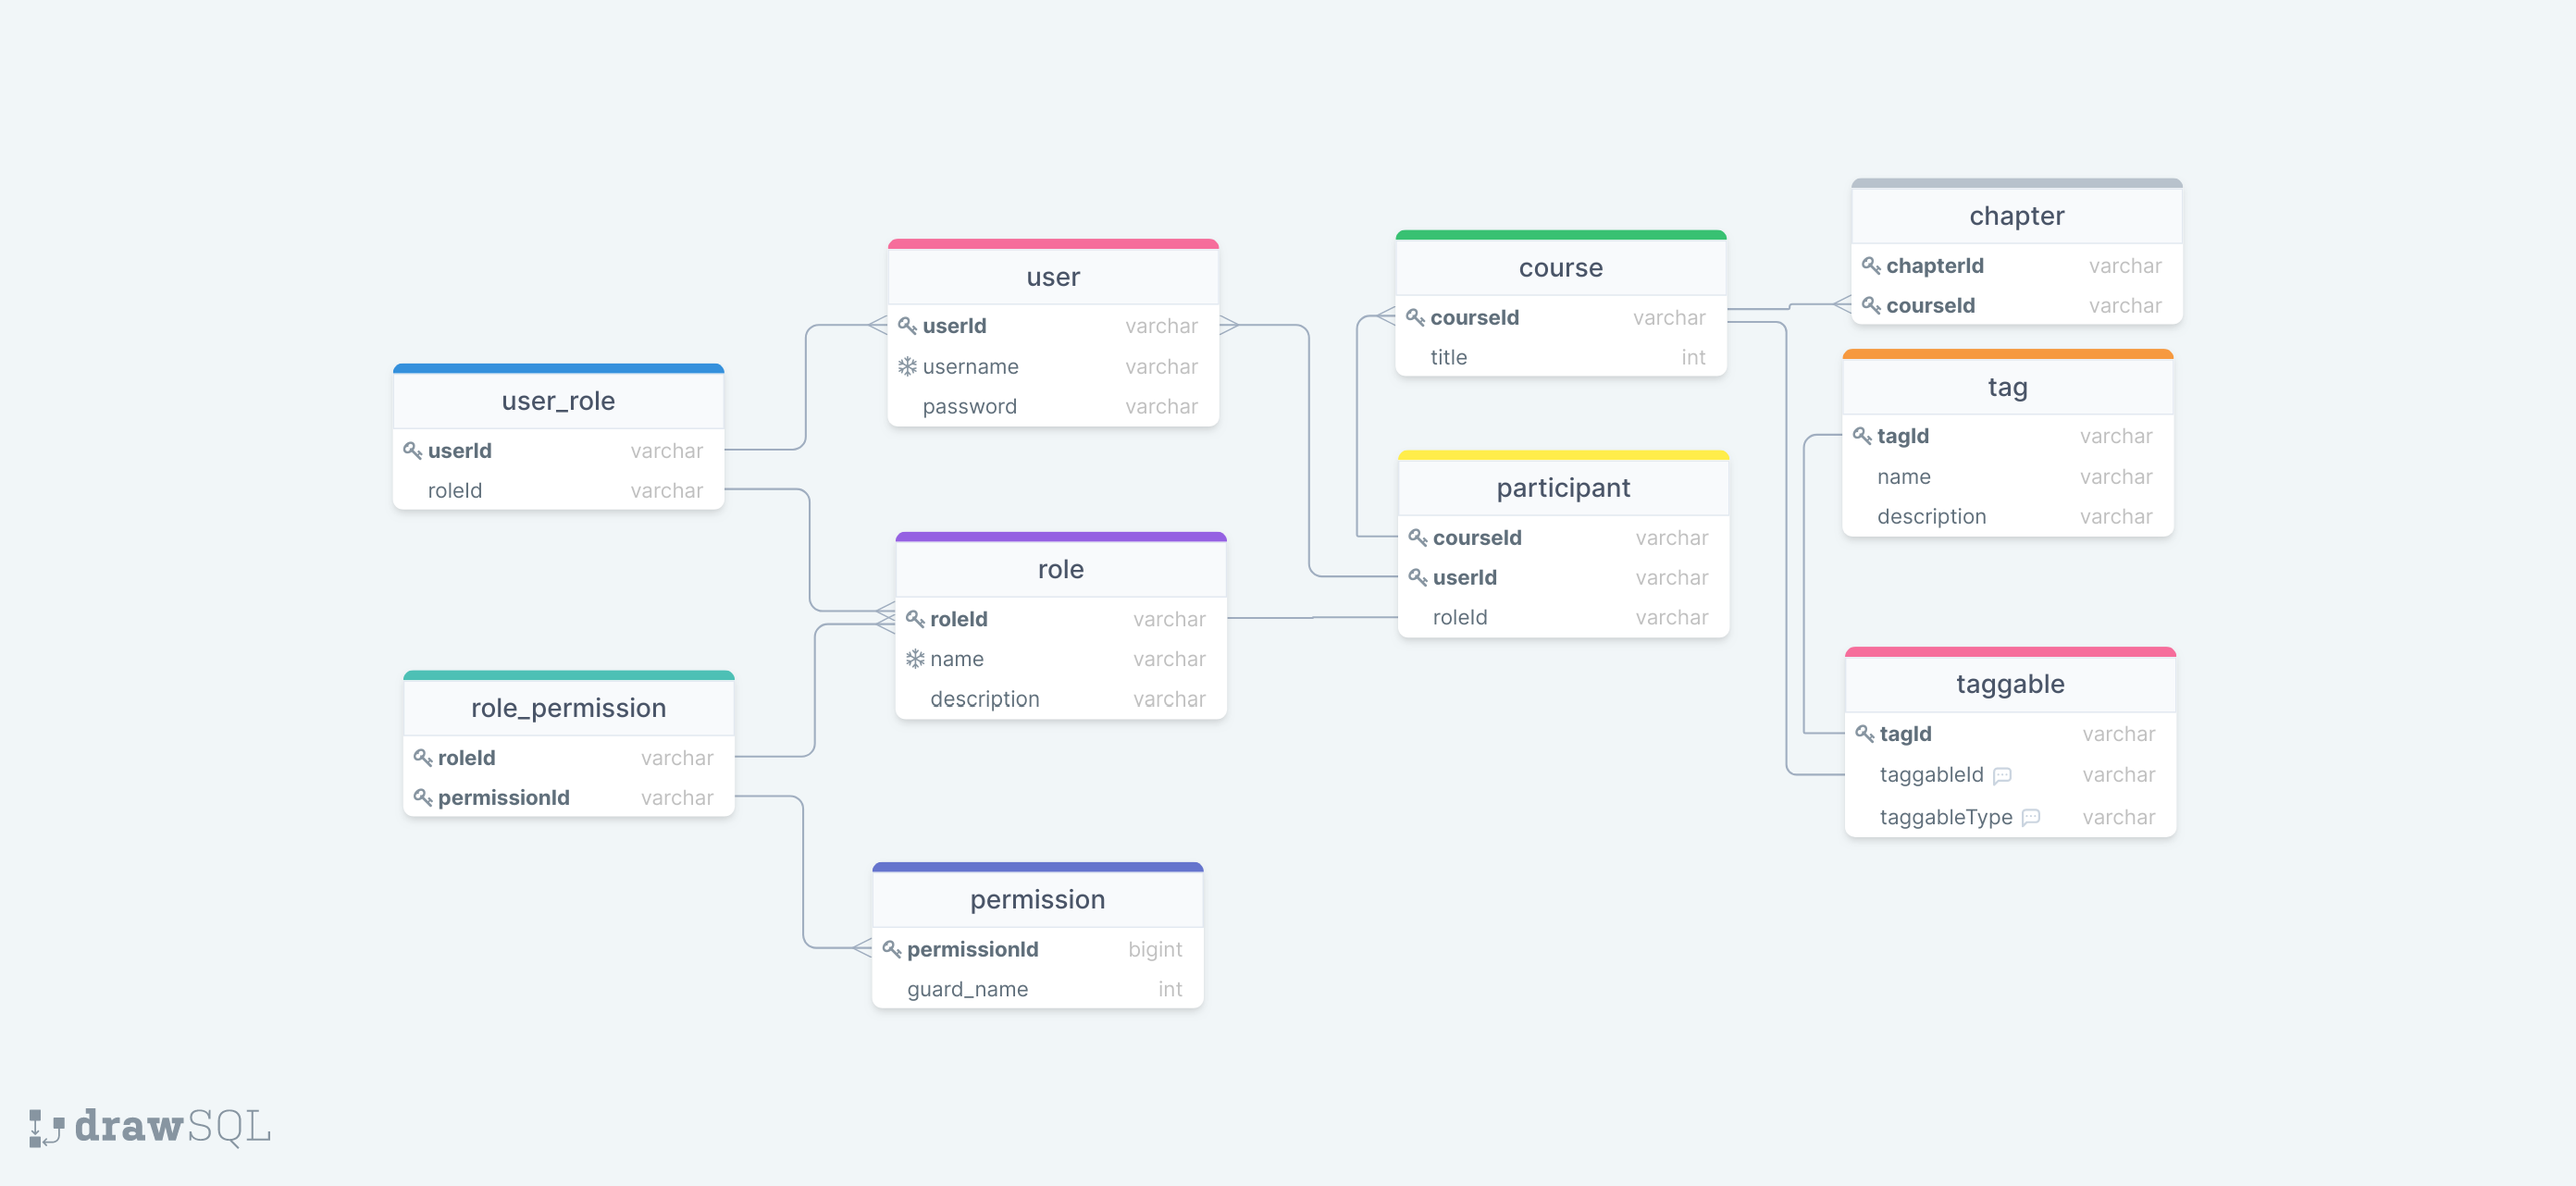
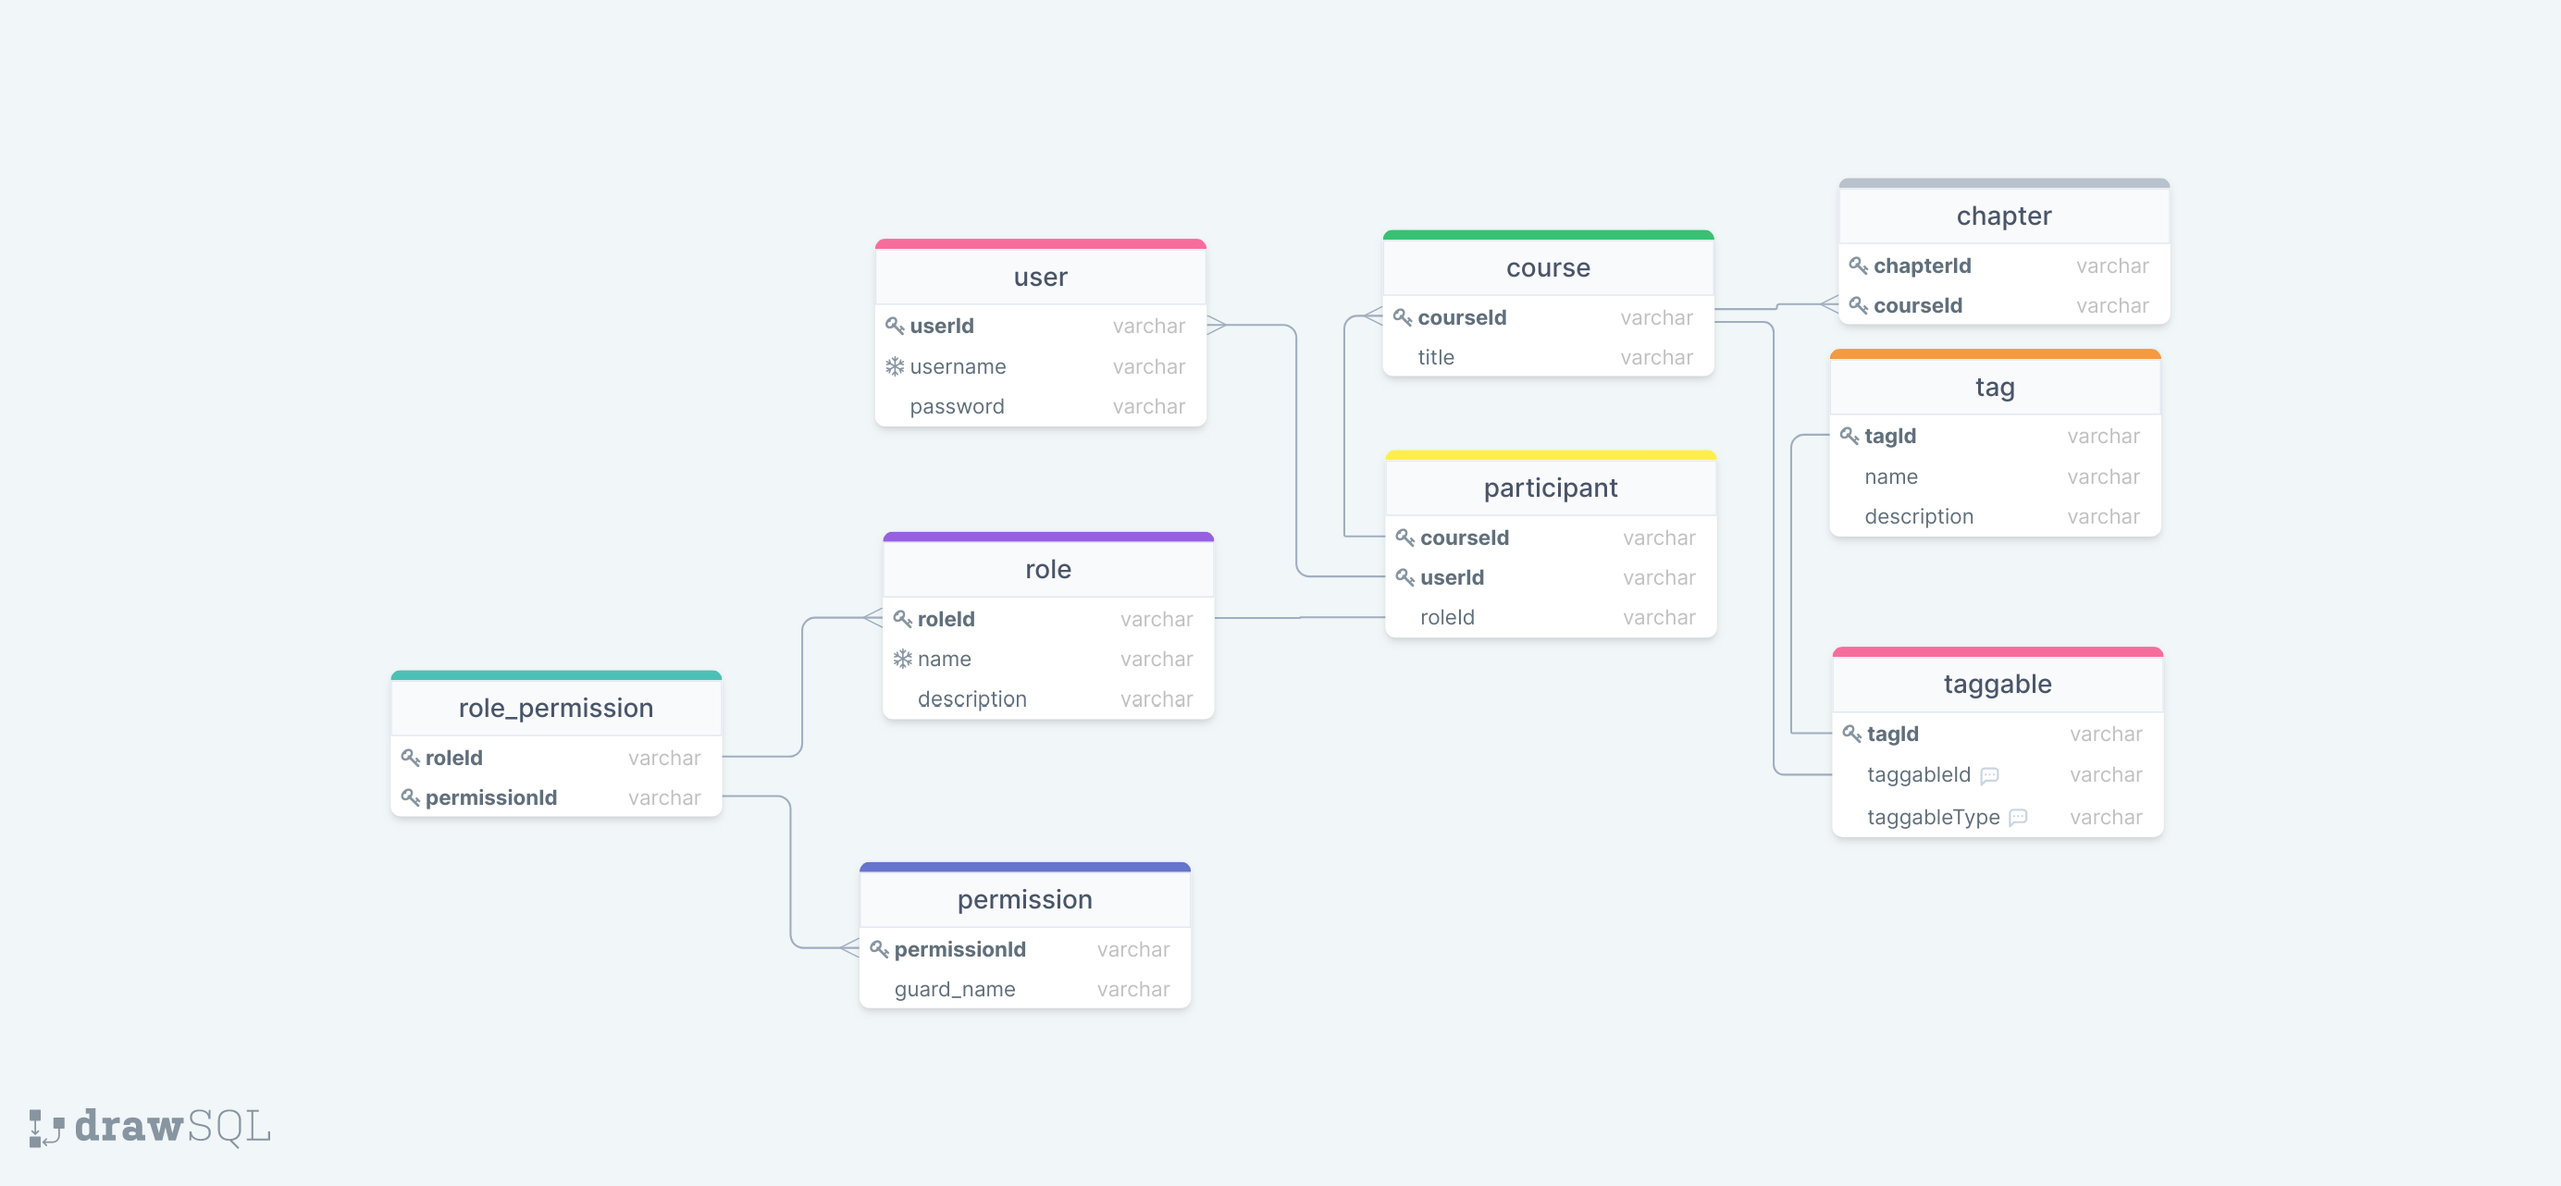
docs/spec

diff --git a/docs/spec/api.spec.md b/docs/spec/api.spec.md
@@ -1,0 +1,81 @@
+## ✏ Specification
+This system create a network encourage people to learn and teach delibratedly.
+
+As a guess, you can:
+- [ ] S1.1. view courses (title, teacher, description, syllabus, tags)
+- [ ] S1.2. view users' profiles
+
+As a user, you are required to register with a unique username and password. You can:
+- [ ] S2.1. register
+- [ ] S2.2. login
+- [ ] S2.3. view your information
+- [ ] S2.4. update your information
+- [ ] S2.5. enroll courses
+- [ ] S2.6. create courses
+- [ ] S2.7. deactive your account
+- [ ] S2.8. search course (by name, tags, teacher)
+- [ ] S2.9. search user (by role, username)
+
+As a member of a course, you are required to enroll in the course. You can:
+- [ ] S3.1. view participants in course.
+- [ ] S3.2. unenroll from courses.
+- [ ] S3.3. view your course (... as a guess, chapter)
+
+As a teacher of a course, you are required to create a course. You can:
+- [ ] S4.1. CRUD tags for his course
+- [ ] S4.2. close course
+- [ ] S4.3. reject members from course
+- [ ] S4.4. CRUD course
+- [ ] S4.5. CRUD chapter
+
+## ❄ API endpoint
+
+
+### Course
+
+- [x] GET - /courses (S1.1)
+- [x] GET - /courses/{courseId} (S1.1, S3.3)
+- [ ] GET - /courses/search?{name, tags, teacher} (S2.8)
+- [x] POST - /courses (S2.6)
+- [x] PUT - /courses/{courseId} (S4.4)
+- [x] PATCH - /courses/{courseId} (S4.4)
+- [x] DELETE - /courses/{courseId} (S4.2)
+- [ ] POST - /course/edit-tag (S4.1)
+### User
+- GET - /users/me (S2.3)
+- GET - /users/{S1.2}
+- GET - /users/search?{role, username} (S2.9)
+- PUT - /users/{userId} (S2.4)
+- PATCH - /users/{userId} (S2.4)
+- DELETE - /users/{member_id} (S2.7)
+- POST - /user/unenroll (S3.2) (attach db.[role])
+### Auth
+- POST - /auth/register (S2.1)
+- POST - /auth/login (S2.2.)
+
+### Participant
+- GET - /participant/{courseId} (S3.1)
+- DELETE - /participant/{courseId}/{username/userId} (S4.3)
+
+### Chapter
+- GET - /course/chapter/{chapterId} (S4.5)
+- POST - /course/chapter/{chapterId} (S4.5)
+- PUT - /course/chapter/{chapterId} (S4.5)
+- PATCH - /course/chapter/{chapterId} (S4.5)
+- DELETE - /course/chapter/{chapterId} (S4.5)
+
+## Module breakdown
+### CourseModule 
+- [ ] Controller
+- [ ] Service (CRUD Course)
+### UserModule
+- [ ] Controller
+- [ ] Service (CRUD User, createToken,...)
+### AuthModule
+- [ ] Controller 
+- [ ] Service
+### ParticipantModule
+- [ ] Controller
+- [ ] Service (CRUD Participant)
+### ChapterMdule
+- [ ] Service (CRUD chapter)

diff --git a/README.md b/README.md
@@ -18,40 +18,6 @@ NestJS + mySQL
 - Members:
   **A member** can join **0..n courses**
 
-## ❄ API endpoint
-
-### Teacher
-
-- [x] GET - /teachers
-- [x] GET - /teachers/{teacher_id}
-- [ ] GET - /teachers/me
-- [x] POST - /teachers ----> POST /auth/teachers/register
-- [x] PUT - /teachers/{teacher_id}
-- [x] PATCH - /teachers/{teacher_id}
-- [x] DELETE - /teachers/{teacher_id} ----> POST /auth/teachers/deactive
-- [x] GET - /teachers/search?{title(course), tag, fullname}
-
-### Course
-
-- [x] GET - /courses
-- [x] GET - /courses/{course_id}
-- [ ] GET - /courses/search?{fullname(teacher), tag}
-- [x] POST - /courses ----> accessToken required, why? because only teacher can create his own courses
-- [x] PUT - /courses/{course_id}
-- [x] PATCH - /courses/{course_id}
-- [x] DELETE - /courses/{course_id}
-
-### Member
-
-- GET - /members
-- GET - /members/me
-- GET - /members/{member_id}
-- GET - /members/search?{fullname}
-- POST - /members
-- PUT - /members/{member_id}
-- PATCH - /members/{member_id}
-- DELETE - /members/{member_id}
-
 ## Things to mind
 
 - [ ] Swagger with standard description
